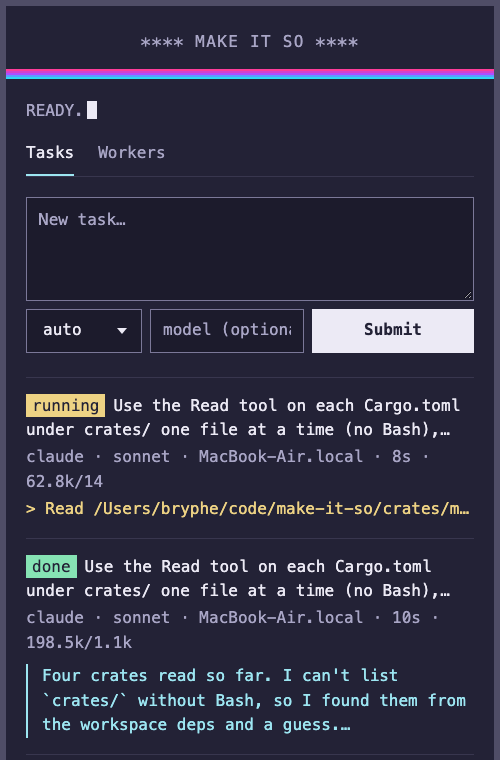
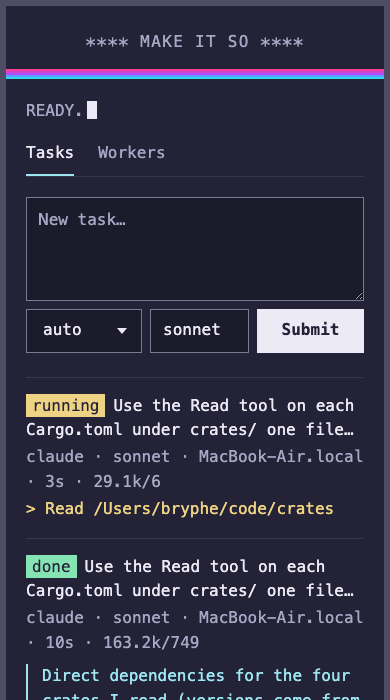
fix: server clock for elapsed, interleaved usage tally, worker row order, planner usage broadcast

diff --git a/crates/mis-orchestrator/static/index.html b/crates/mis-orchestrator/static/index.html
@@ -150,6 +150,7 @@ const store = {
   set(v) { try { v ? localStorage.setItem('mis-token', v) : localStorage.removeItem('mis-token'); } catch {} },
 };
 let ws = null, authNeeded = false, tasks = [], workers = [], detail = null, retries = 0, retryTimer = 0, statusTimer = 0;
+let skew = 0; // orchestrator clock minus ours, from the last Status; task times are on its clock
 let from = '#'; // last list view, so a task's back link returns to Workers when opened from there
 
 // Text-only DOM builder: every string becomes a text node, never parsed as HTML.
@@ -206,17 +207,16 @@ function fmtElapsed(ms) {
 const fmtTokens = (n) => (n < 1e3 ? `${n}` : n < 1e6 ? `${(n / 1e3).toFixed(1)}k` : `${(n / 1e6).toFixed(1)}M`);
 // `12.3k/1.1k` once the agent reports usage.
 const tokensOf = (t) => (num(t.tokens_in) === null || num(t.tokens_out) === null ? '' : `${fmtTokens(t.tokens_in)}/${fmtTokens(t.tokens_out)}`);
-const finished = (t) => t.status === 'done' || t.status === 'failed';
 // Time since submit; `tick` advances it every second until the task finishes.
 function clock(t) {
   if (num(t.started_at) === null) return '';
   if (num(t.finished_at) !== null) return fmtElapsed(t.finished_at - t.started_at);
-  const s = el('span', {}, fmtElapsed(Date.now() - t.started_at));
+  const s = el('span', {}, fmtElapsed(Date.now() + skew - t.started_at));
   s.dataset.start = t.started_at;
   return s;
 }
 function tick() {
-  for (const s of document.querySelectorAll('[data-start]')) s.textContent = fmtElapsed(Date.now() - Number(s.dataset.start));
+  for (const s of document.querySelectorAll('[data-start]')) s.textContent = fmtElapsed(Date.now() + skew - Number(s.dataset.start));
 }
 // Known parts joined with ` · `.
 const dots = (parts) => parts.filter(Boolean).flatMap((p, i) => (i ? [' · ', p] : [p]));
@@ -247,13 +247,13 @@ function render() {
 // `claude · sonnet · host`, leaving out what isn't known yet.
 const placement = (t) => [t.harness, t.model, t.worker && hostOf(t.worker)].filter(Boolean);
 
-// Status + prompt, then placement/time/tokens, then what it's doing or the answer preview. Newest first.
+// Status + prompt, then placement/time/tokens, then what a running task is doing, then the answer preview. Newest first.
 function taskRows(ul, list) {
   ul.replaceChildren(...[...list].reverse().map((t) => el('li', {},
     el('a', { href: `#task/${t.id}` },
       el('div', { className: 'head clamp2' }, chip(t.status), t.prompt),
       el('div', { className: 'sub dim' }, ...dots([...placement(t), clock(t), tokensOf(t)])),
-      !finished(t) && t.activity ? el('div', { className: 'activity' }, t.activity) : '',
+      t.status === 'running' && t.activity ? el('div', { className: 'activity' }, t.activity) : '',
       t.summary ? el('pre', { className: 'answer clamp3' }, t.summary) : ''))));
   if (!list.length) ul.append(el('li', { className: 'dim' }, 'no tasks yet'));
 }
@@ -292,7 +292,8 @@ function renderWorkers() {
     return el('li', { className: `worker${st === 'offline' ? ' off' : ''}` },
       el('div', { className: 'head' }, el('a', { href: `#worker/${w.id}`, className: 'open' }, w.info.hostname), ' ', chip(st),
         run ? el('a', { href: `#task/${run.id}`, className: 'task' }, short(run.id)) : ''),
-      run ? el('div', { className: 'activity' }, ...dots([run.activity, clock(run), tokensOf(run)])) : '',
+      // Activity last: it's the part the ellipsis may cut.
+      run ? el('div', { className: 'activity' }, ...dots([clock(run), tokensOf(run), run.activity])) : '',
       meterLine(w));
   }));
   if (!workers.length) $('machines').append(el('li', { className: 'dim' }, 'no workers connected'));
@@ -331,6 +332,7 @@ function onMessage(msg) {
   switch (msg.type) {
     case 'status': {
       tasks = msg.tasks;
+      if (num(msg.now_ms) !== null) skew = msg.now_ms - Date.now();
       // The server's order is unstable; sort so rows don't jump on refresh.
       workers = [...msg.workers].sort((a, b) => a.info.hostname.localeCompare(b.info.hostname) || a.id.localeCompare(b.id));
       const harnesses = [...new Set(msg.workers.flatMap((w) => w.info.harnesses))].sort();

diff --git a/crates/mis-orchestrator/tests/e2e.rs b/crates/mis-orchestrator/tests/e2e.rs
@@ -105,7 +105,7 @@ async fn submit_assign_finish() {
         panic!()
     };
     send(&mut client, &ClientMsg::Status).await;
-    let ServerMsg::Status { tasks, workers } = recv(&mut client).await else {
+    let ServerMsg::Status { tasks, workers, .. } = recv(&mut client).await else {
         panic!()
     };
     assert!(workers.is_empty());
@@ -160,7 +160,7 @@ async fn submit_assign_finish() {
     };
 
     send(&mut client, &ClientMsg::Status).await;
-    let ServerMsg::Status { tasks, workers } = recv(&mut client).await else {
+    let ServerMsg::Status { tasks, workers, .. } = recv(&mut client).await else {
         panic!()
     };
     assert_eq!(tasks[0].status, TaskStatus::Done);
@@ -298,7 +298,7 @@ async fn worker_disconnect_fails_task_and_notifies() {
     };
     assert_eq!(t, task);
     send(&mut client, &ClientMsg::Status).await;
-    let ServerMsg::Status { tasks, workers } = recv(&mut client).await else {
+    let ServerMsg::Status { tasks, workers, .. } = recv(&mut client).await else {
         panic!()
     };
     assert_eq!(tasks[0].status, TaskStatus::Failed);
@@ -466,7 +466,7 @@ async fn reconnect_keeps_reported_task_and_fails_unreported() {
     let mut worker2 = join(&base, wid, "claude", vec![task]).await;
     drop(worker); // stale socket closing must not remove the new registration
     send(&mut client, &ClientMsg::Status).await;
-    let ServerMsg::Status { tasks, workers } = recv(&mut client).await else {
+    let ServerMsg::Status { tasks, workers, .. } = recv(&mut client).await else {
         panic!()
     };
     assert_eq!(workers.len(), 1);
@@ -506,7 +506,7 @@ async fn reconnect_keeps_reported_task_and_fails_unreported() {
     assert_eq!(t, task);
     assert_eq!(summary.as_deref(), Some("worker restarted"));
     send(&mut client, &ClientMsg::Status).await;
-    let ServerMsg::Status { tasks, workers } = recv(&mut client).await else {
+    let ServerMsg::Status { tasks, workers, .. } = recv(&mut client).await else {
         panic!()
     };
     assert_eq!(workers.len(), 1);
@@ -721,11 +721,12 @@ async fn status_shows_activity_tokens_and_timing() {
         };
     }
     send(&mut client, &ClientMsg::Status).await;
-    let ServerMsg::Status { tasks, .. } = recv(&mut client).await else {
+    let ServerMsg::Status { tasks, now_ms, .. } = recv(&mut client).await else {
         panic!()
     };
     let t = &tasks[0];
     assert_eq!(t.activity, "> Bash ls");
+    assert!(now_ms.unwrap() >= t.started_at.unwrap());
     assert_eq!((t.tokens_in, t.tokens_out), (Some(12_300), Some(1_100)));
     assert!(t.started_at.unwrap() > 1_700_000_000_000);
     assert_eq!(t.finished_at, None);
@@ -890,7 +891,7 @@ async fn planner_answers_trivial_question_without_a_worker() {
     assert_eq!(summary.as_deref(), Some("4"));
 
     send(&mut client, &ClientMsg::Status).await;
-    let ServerMsg::Status { tasks, workers } = recv(&mut client).await else {
+    let ServerMsg::Status { tasks, workers, .. } = recv(&mut client).await else {
         panic!()
     };
     let t = tasks.iter().find(|t| t.id == task).unwrap();

diff --git a/crates/mis-agent/src/claude.rs b/crates/mis-agent/src/claude.rs
@@ -49,11 +49,8 @@ pub fn parse_line(line: &str) -> Vec<AgentEvent> {
 /// line wins); the `result` line's session totals replace the tally.
 #[derive(Default)]
 pub struct Parser {
-    msg: Option<String>,
-    /// Totals of the messages before `msg`.
-    closed: (u64, u64),
-    /// `msg`'s latest usage.
-    current: (u64, u64),
+    /// Latest usage per message id; lines of different messages may interleave.
+    messages: std::collections::HashMap<String, (u64, u64)>,
     sent: Option<(u64, u64)>,
 }
 
@@ -65,16 +62,11 @@ impl Parser {
         let mut out = events(&v);
         let total = match v["type"].as_str() {
             Some("assistant") => usage(&v["message"]["usage"]).map(|u| {
-                let id = v["message"]["id"].as_str().map(String::from);
-                if id != self.msg {
-                    self.closed = (
-                        self.closed.0 + self.current.0,
-                        self.closed.1 + self.current.1,
-                    );
-                    self.msg = id;
-                }
-                self.current = u;
-                (self.closed.0 + u.0, self.closed.1 + u.1)
+                let id = v["message"]["id"].as_str().unwrap_or_default();
+                self.messages.insert(id.to_string(), u);
+                self.messages
+                    .values()
+                    .fold((0, 0), |a, m| (a.0 + m.0, a.1 + m.1))
             }),
             Some("result") => usage(&v["usage"]),
             _ => None,
@@ -299,7 +291,9 @@ mod tests {
         // Same message again (next content block): replaced, not added; unchanged is not resent.
         assert_eq!(p.line(&asst("m1", 9)), [usage(110, 9), text.clone()]);
         assert_eq!(p.line(&asst("m1", 9)), std::slice::from_ref(&text));
-        assert_eq!(p.line(&asst("m2", 1)), [usage(220, 10), text]);
+        assert_eq!(p.line(&asst("m2", 1)), [usage(220, 10), text.clone()]);
+        // Interleaved (e.g. a subagent's messages): m1 still counted once.
+        assert_eq!(p.line(&asst("m1", 12)), [usage(220, 13), text]);
         let res = r#"{"type":"result","subtype":"success","is_error":false,"result":"ok","usage":{"input_tokens":4,"cache_creation_input_tokens":200,"cache_read_input_tokens":16,"output_tokens":83}}"#;
         assert_eq!(
             p.line(res),

diff --git a/crates/mis-orchestrator/src/ledger.rs b/crates/mis-orchestrator/src/ledger.rs
@@ -225,6 +225,7 @@ impl Ledger {
                 })
                 .collect(),
             tasks: self.tasks.iter().map(TaskEntry::summary).collect(),
+            now_ms: Some(self.now_ms),
         }
     }
 
@@ -365,6 +366,7 @@ impl Ledger {
                             model: p.model,
                         });
                         events.iter().for_each(|e| t.record(e, now));
+                        // Not the planner's reason: the worker hasn't started yet.
                         t.step = None;
                         let mut effects: Vec<_> = events.into_iter().map(broadcast).collect();
                         effects.extend(self.schedule());
@@ -387,7 +389,7 @@ impl Ledger {
             }
             AgentEvent::Usage { input, output } => {
                 t.tokens = Some((input, output));
-                vec![]
+                vec![broadcast(AgentEvent::Usage { input, output })]
             }
             _ => vec![],
         }
@@ -1240,7 +1242,8 @@ mod tests {
             input: 4_000,
             output: 20,
         };
-        l.planning_event(planned, usage.clone());
+        // Broadcast so followers refresh.
+        assert_eq!(l.planning_event(planned, usage.clone()).len(), 1);
         l.planning_event(
             planned,
             AgentEvent::Finished {

diff --git a/crates/mis-cli/src/main.rs b/crates/mis-cli/src/main.rs
@@ -316,10 +316,16 @@ async fn main() -> Result<()> {
     match &args.cmd {
         Cmd::Status => {
             send(&mut ws, &ClientMsg::Status).await?;
-            let ServerMsg::Status { workers, tasks } = recv(&mut ws).await? else {
+            let ServerMsg::Status {
+                workers,
+                tasks,
+                now_ms,
+            } = recv(&mut ws).await?
+            else {
                 bail!("unexpected reply")
             };
-            let now = unix_ms();
+            // Orchestrator's clock, like the task timestamps; older ones don't send it.
+            let now = now_ms.unwrap_or_else(unix_ms);
             println!("workers ({}):", workers.len());
             for w in &workers {
                 let current = tasks
@@ -360,7 +366,7 @@ async fn main() -> Result<()> {
         }
         Cmd::Show { id } => {
             send(&mut ws, &ClientMsg::Status).await?;
-            let ServerMsg::Status { tasks, workers } = recv(&mut ws).await? else {
+            let ServerMsg::Status { tasks, workers, .. } = recv(&mut ws).await? else {
                 bail!("unexpected reply")
             };
             let task = resolve(&tasks, id)?;

diff --git a/crates/mis-types/src/lib.rs b/crates/mis-types/src/lib.rs
@@ -217,6 +217,10 @@ pub enum ServerMsg {
     Status {
         workers: Vec<WorkerSummary>,
         tasks: Vec<TaskSummary>,
+        /// Orchestrator's Unix millis, so clients time running tasks on its
+        /// clock rather than their own.
+        #[serde(default)]
+        now_ms: Option<u64>,
     },
     Submitted {
         task: TaskId,
